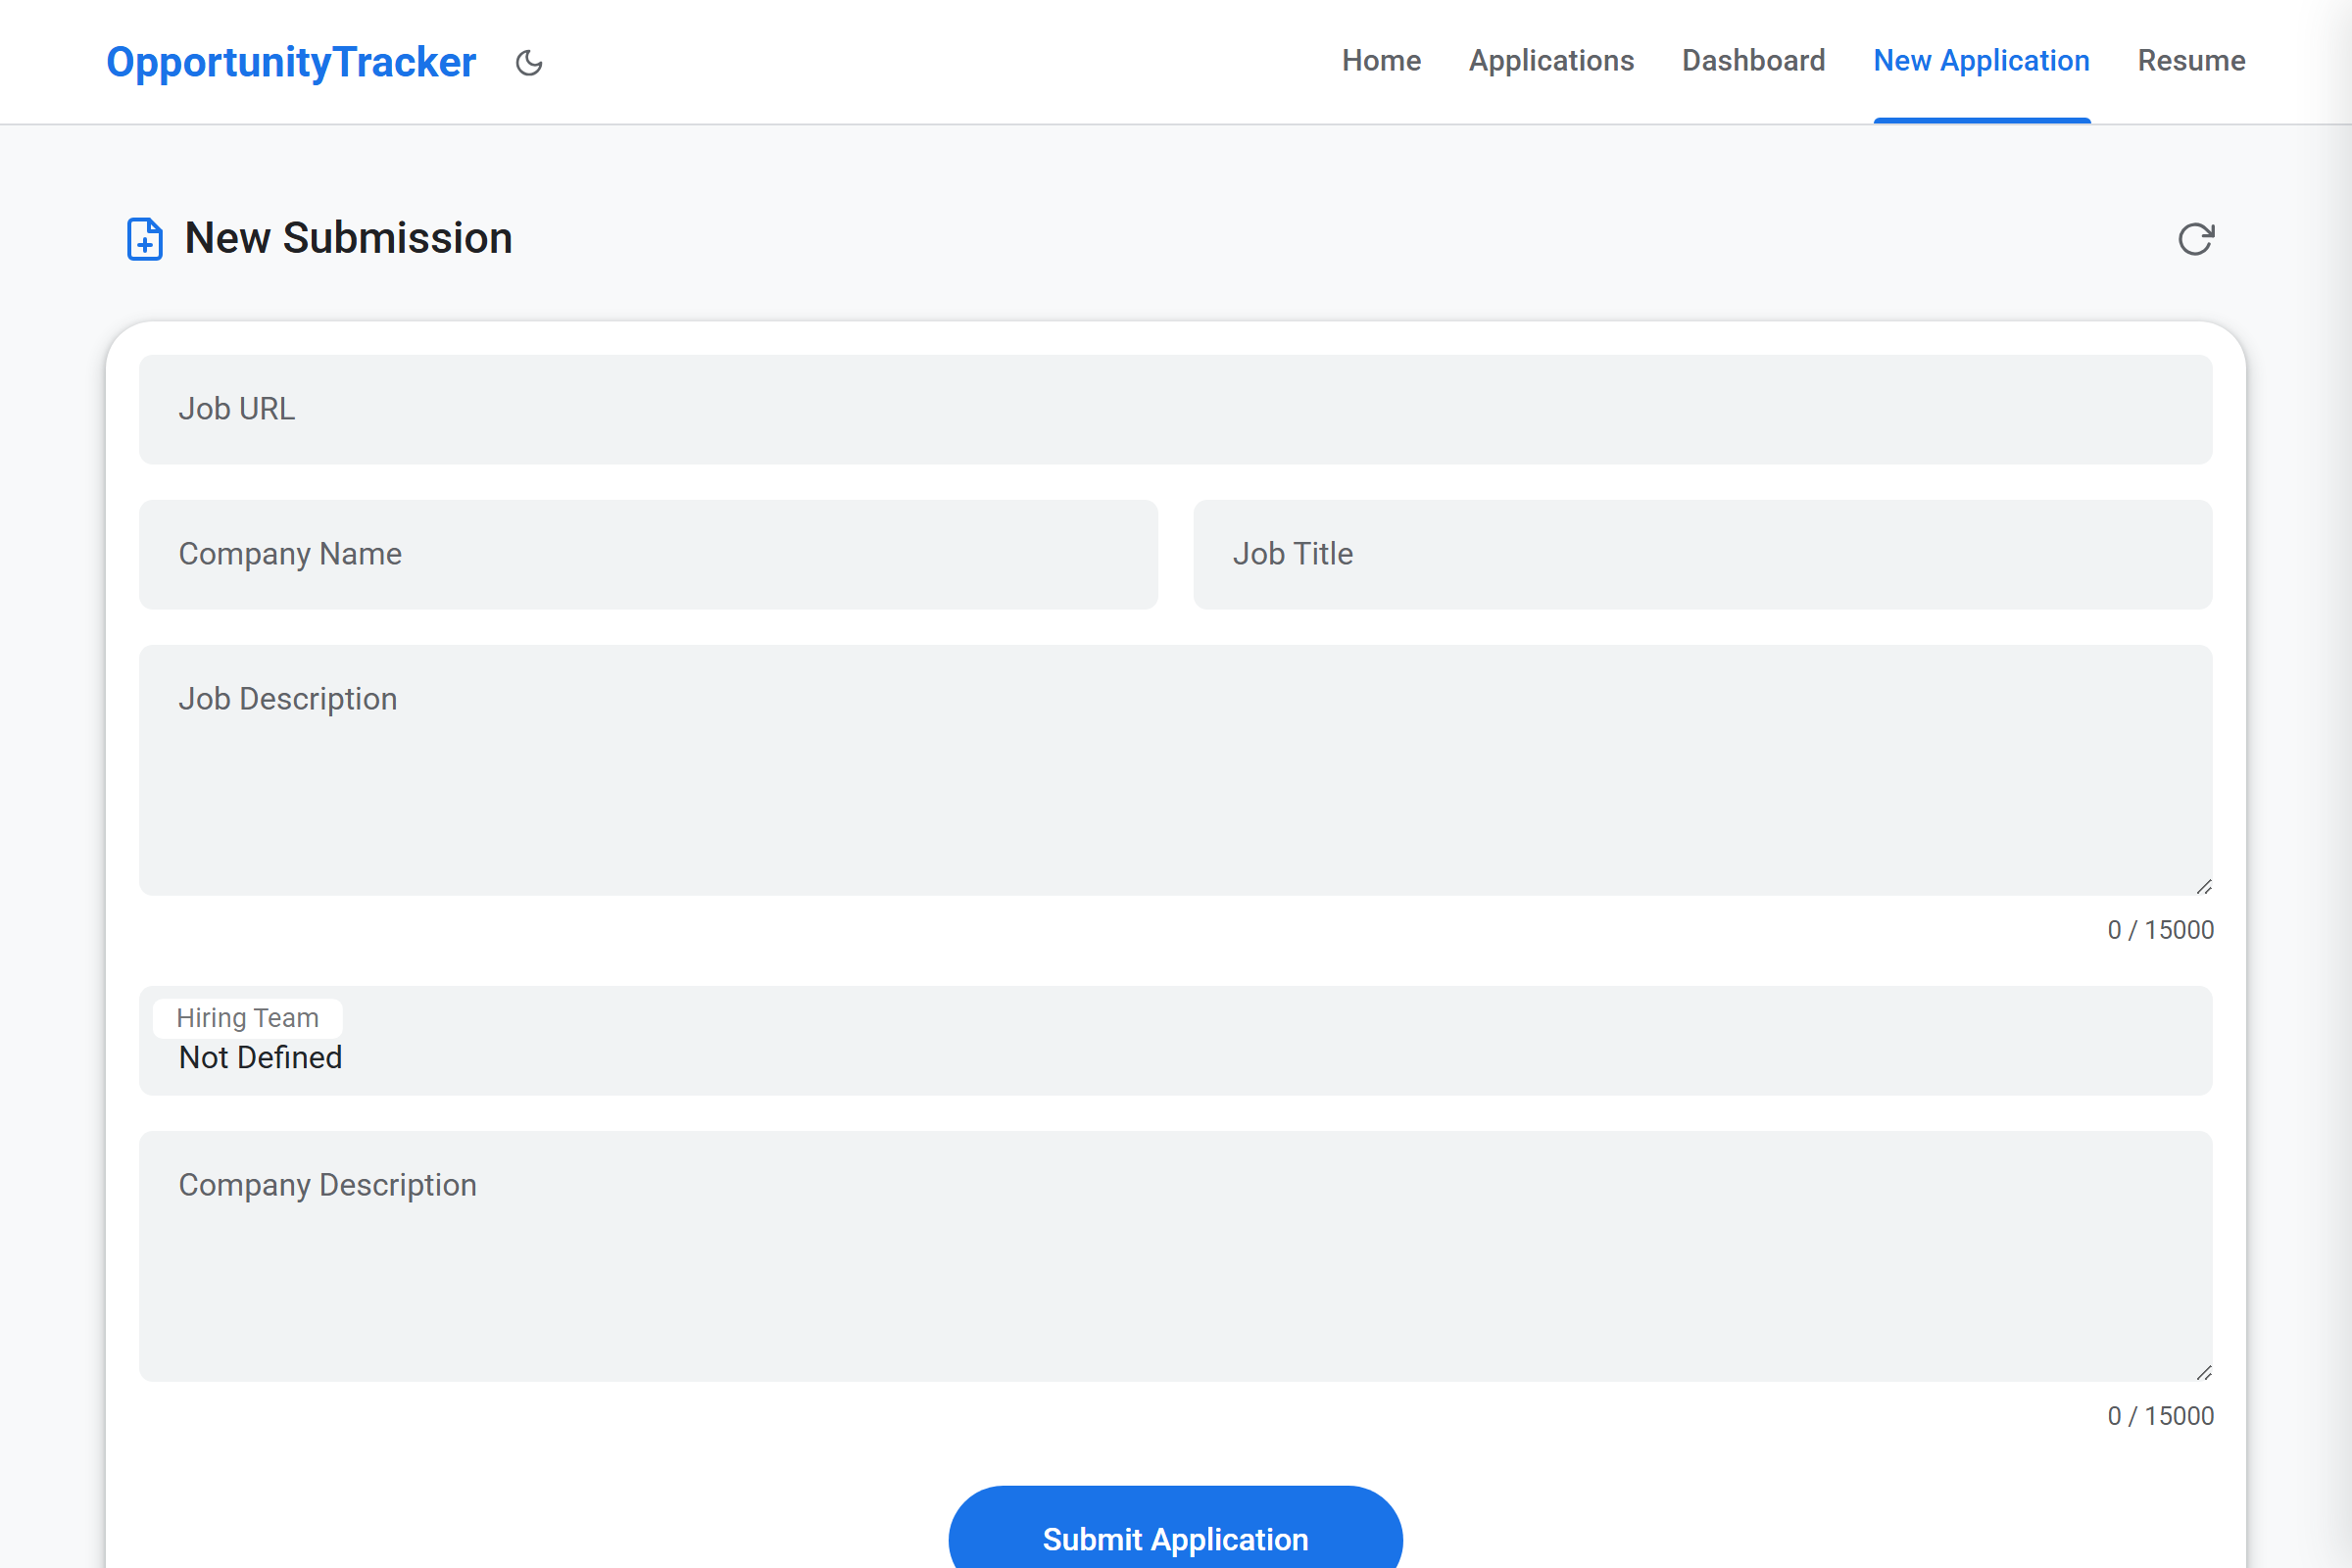
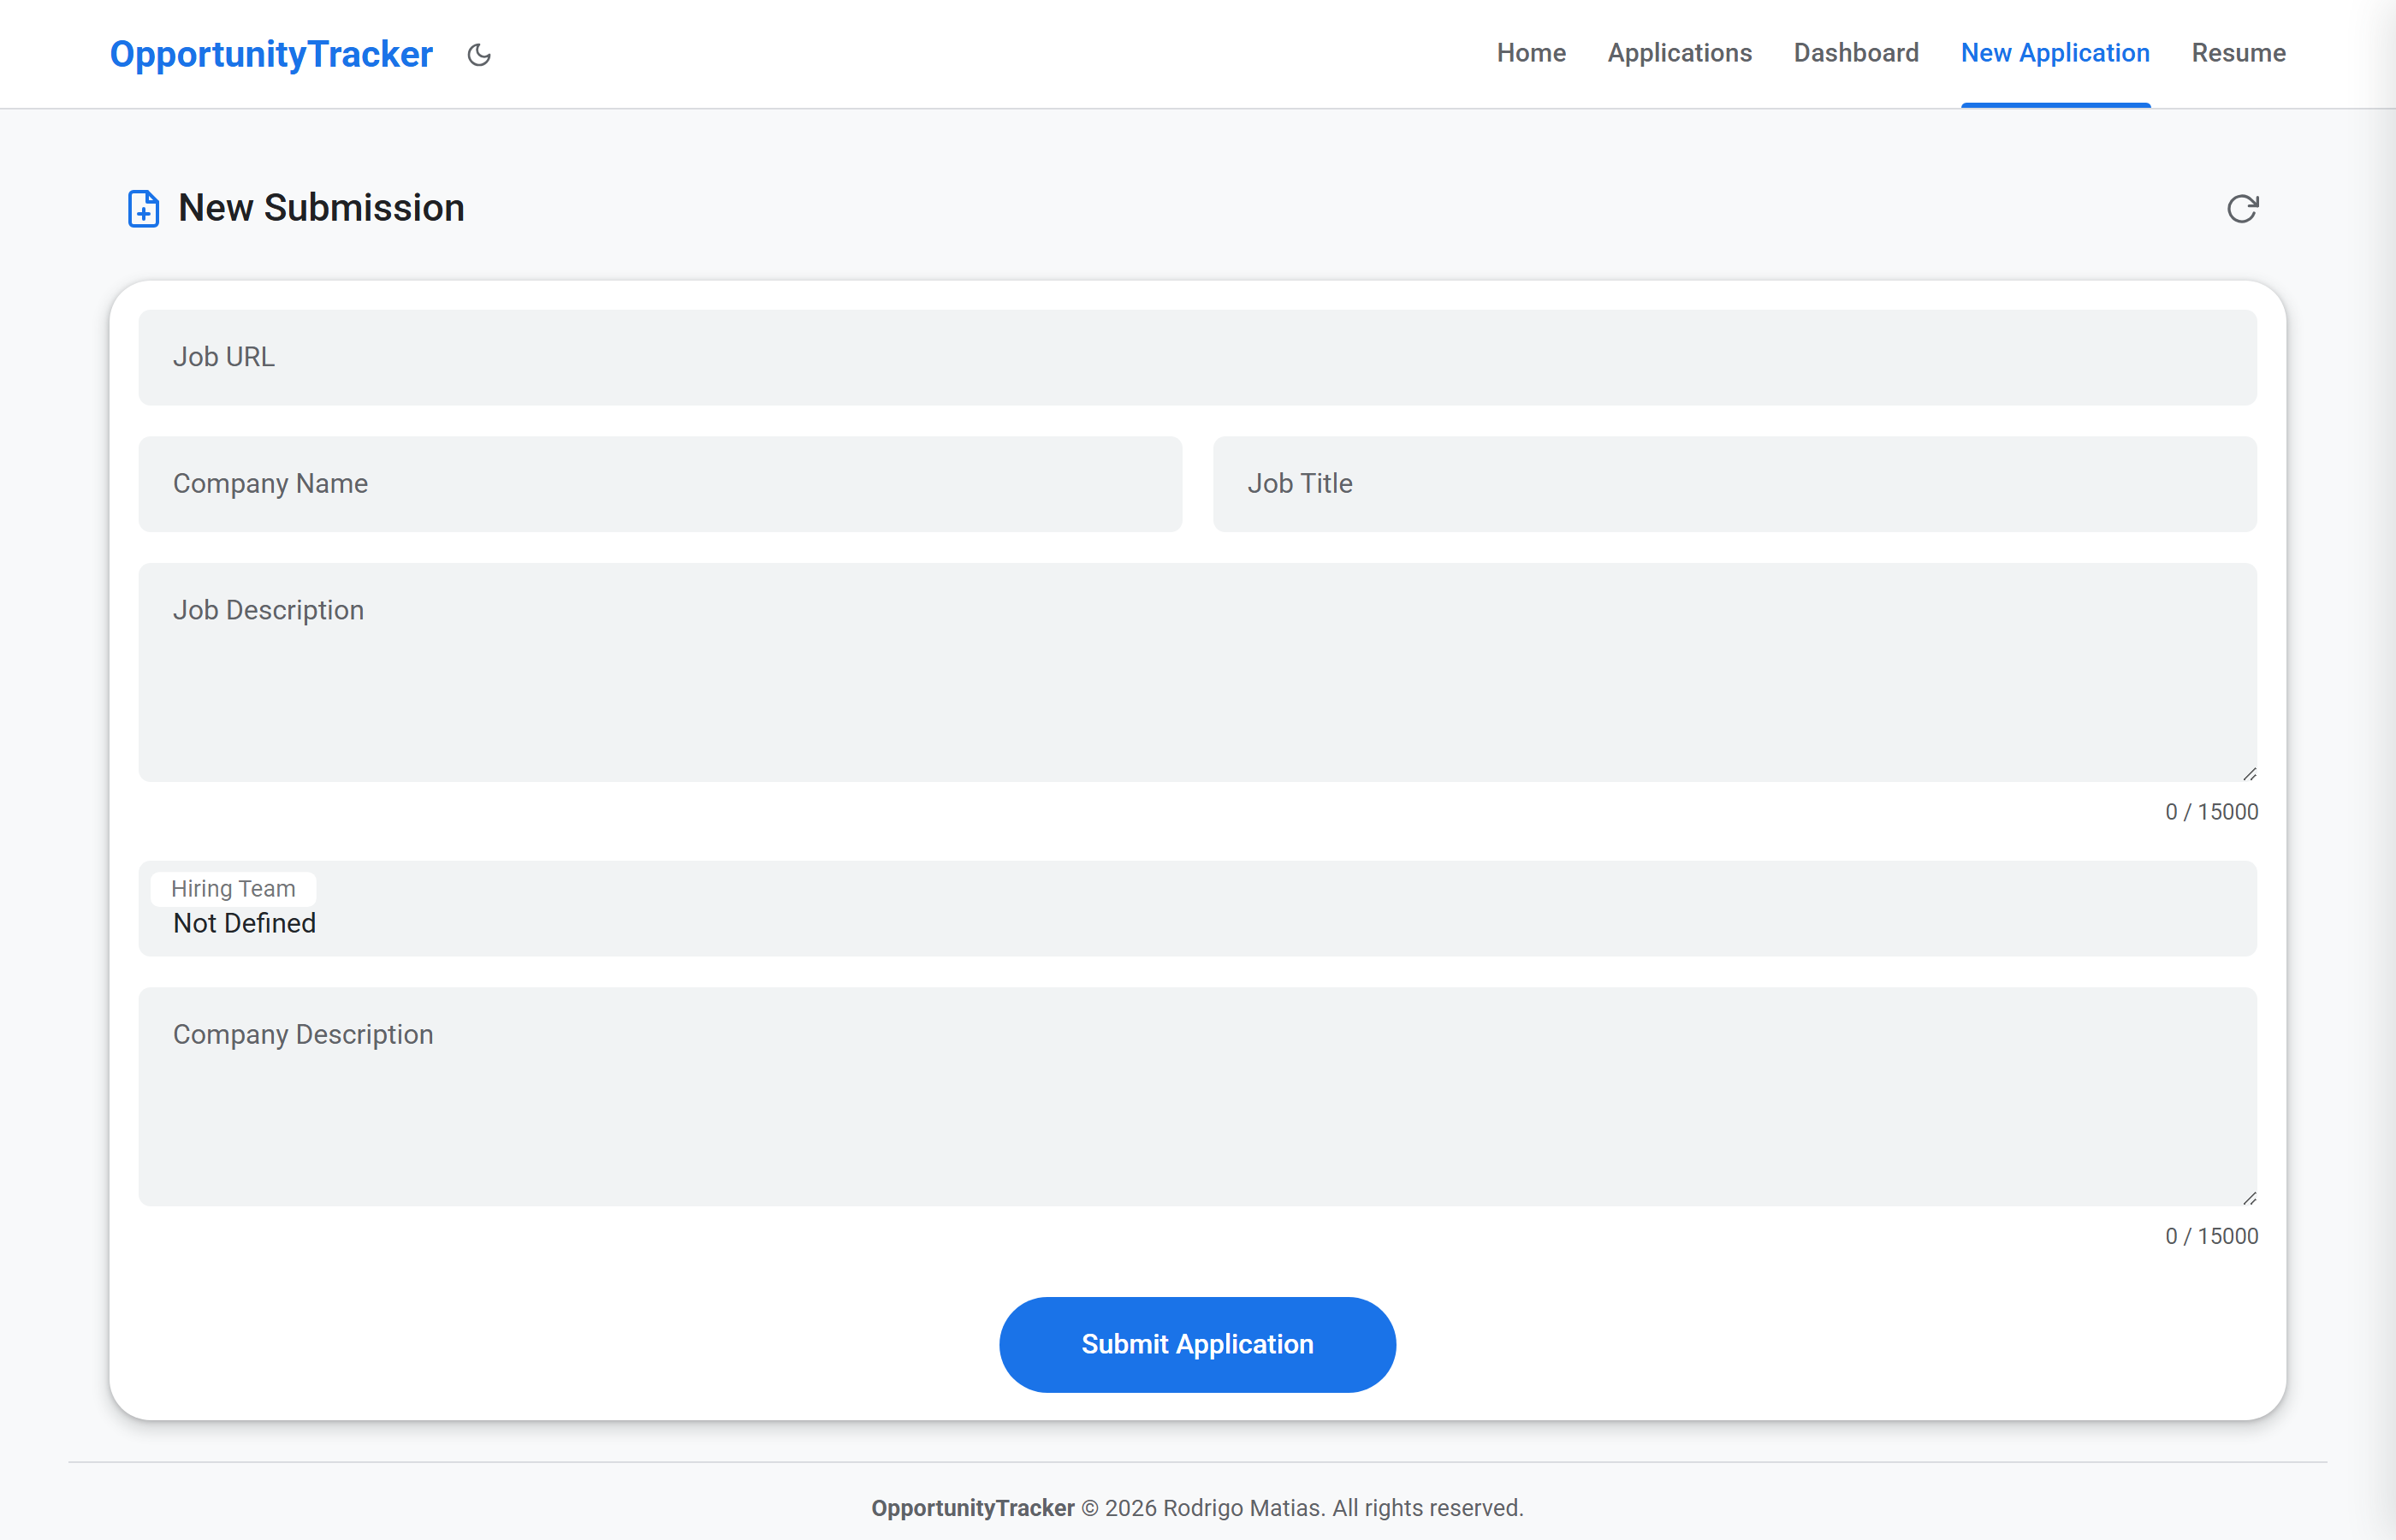
style: change floating refresh button background color to a neutral grayish tone (#5f6368) and update assets screenshots

diff --git a/interviewz/css/styles.css b/interviewz/css/styles.css
@@ -3834,9 +3834,9 @@ body {
   width: 56px;
   height: 56px;
   border-radius: 50%;
-  background: var(--color-success); /* Green background to contrast with primary blue */
+  background: #5f6368; /* Grayish background */
   color: white;
-  box-shadow: 0 4px 10px rgba(30, 142, 62, 0.3), 0 1px 3px rgba(0, 0, 0, 0.2);
+  box-shadow: 0 4px 10px rgba(95, 99, 104, 0.3), 0 1px 3px rgba(0, 0, 0, 0.2);
   transition: transform var(--transition-base), box-shadow var(--transition-base), background-color 0.3s;
   z-index: 80;
   display: flex;
@@ -3849,8 +3849,8 @@ body {
 
 .fab-btn-secondary:hover {
   transform: scale(1.08);
-  background-color: #177d35; /* Slightly darker hover green */
-  box-shadow: 0 6px 14px rgba(30, 142, 62, 0.45), 0 2px 5px rgba(0, 0, 0, 0.2);
+  background-color: #4b4f53; /* Slightly darker hover gray */
+  box-shadow: 0 6px 14px rgba(95, 99, 104, 0.45), 0 2px 5px rgba(0, 0, 0, 0.2);
 }
 
 .fab-btn-secondary:active {
@@ -3870,12 +3870,12 @@ body {
 }
 
 .theme-dark .fab-btn-secondary {
-  background: #137333; /* Darker success green in dark mode */
+  background: #5f6368; /* Neutral gray in dark mode */
   box-shadow: 0 4px 10px rgba(0, 0, 0, 0.4), 0 1px 3px rgba(0, 0, 0, 0.2);
 }
 
 .theme-dark .fab-btn-secondary:hover {
-  background-color: #0f5d29;
+  background-color: #757b80; /* Slightly lighter gray in dark mode on hover */
 }
 
 /* Mobile responsive styling for topbar sync */